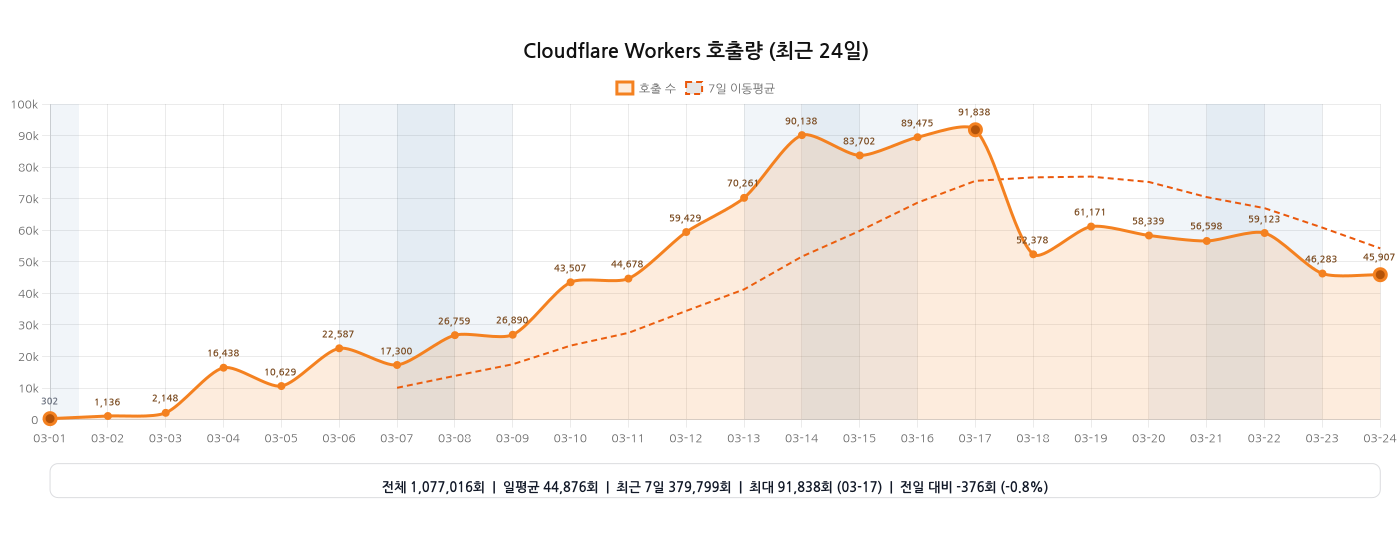
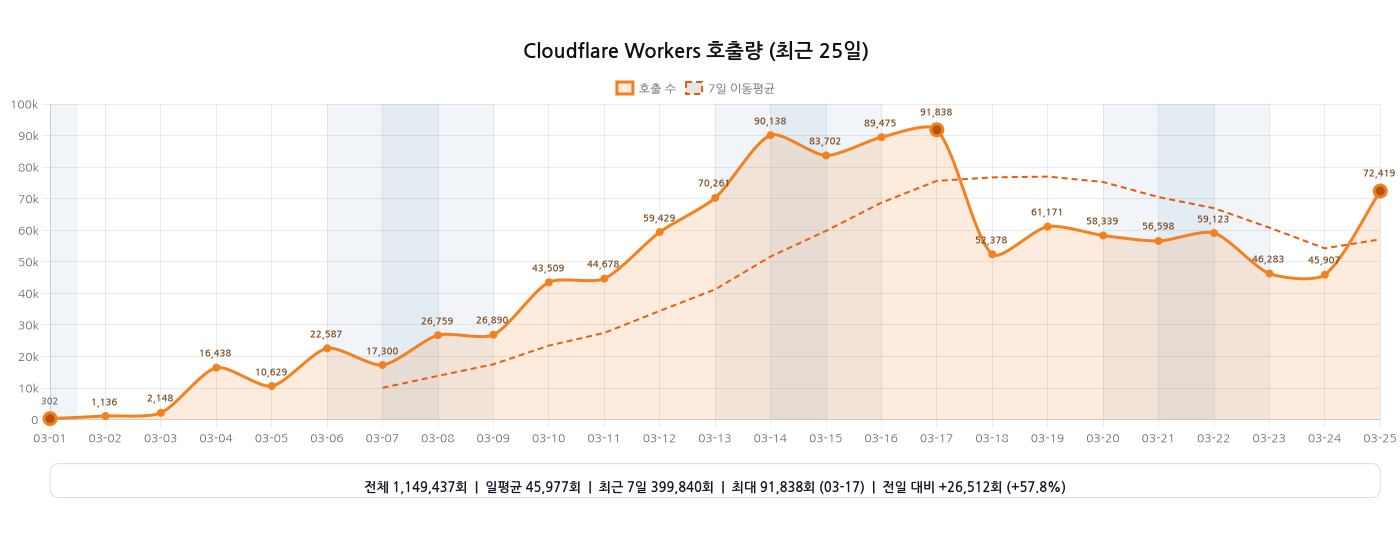
chore: 워커 호출량 그래프 자동 갱신

diff --git a/README.md b/README.md
@@ -18,11 +18,11 @@
 [![Coverage](https://github.com/hmmhmmhm/daiso-mcp/actions/workflows/coverage.yml/badge.svg?branch=main)](https://github.com/hmmhmmhm/daiso-mcp/actions/workflows/coverage.yml)
 
 <!-- WORKERS_INVOCATIONS_CHART:START -->
-<h3>Cloudflare Workers 호출량 (2026-03-01 ~ 2026-03-24, 24일)</h3>
+<h3>Cloudflare Workers 호출량 (2026-03-01 ~ 2026-03-25, 25일)</h3>
 
-<img src="./assets/analytics/workers-invocations.png?v=2026-03-24T15:46:13.147Z" alt="Cloudflare Workers 호출량 그래프 (2026-03-01 ~ 2026-03-24)" width="100%">
+<img src="./assets/analytics/workers-invocations.png?v=2026-03-25T15:46:53.646Z" alt="Cloudflare Workers 호출량 그래프 (2026-03-01 ~ 2026-03-25)" width="100%">
 
-<sub>기준 워커: <code>daiso-mcp</code> · 마지막 갱신: 2026-03-25 00:46 KST</sub>
+<sub>기준 워커: <code>daiso-mcp</code> · 마지막 갱신: 2026-03-26 00:46 KST</sub>
 
 <!-- WORKERS_INVOCATIONS_CHART:END -->
 
